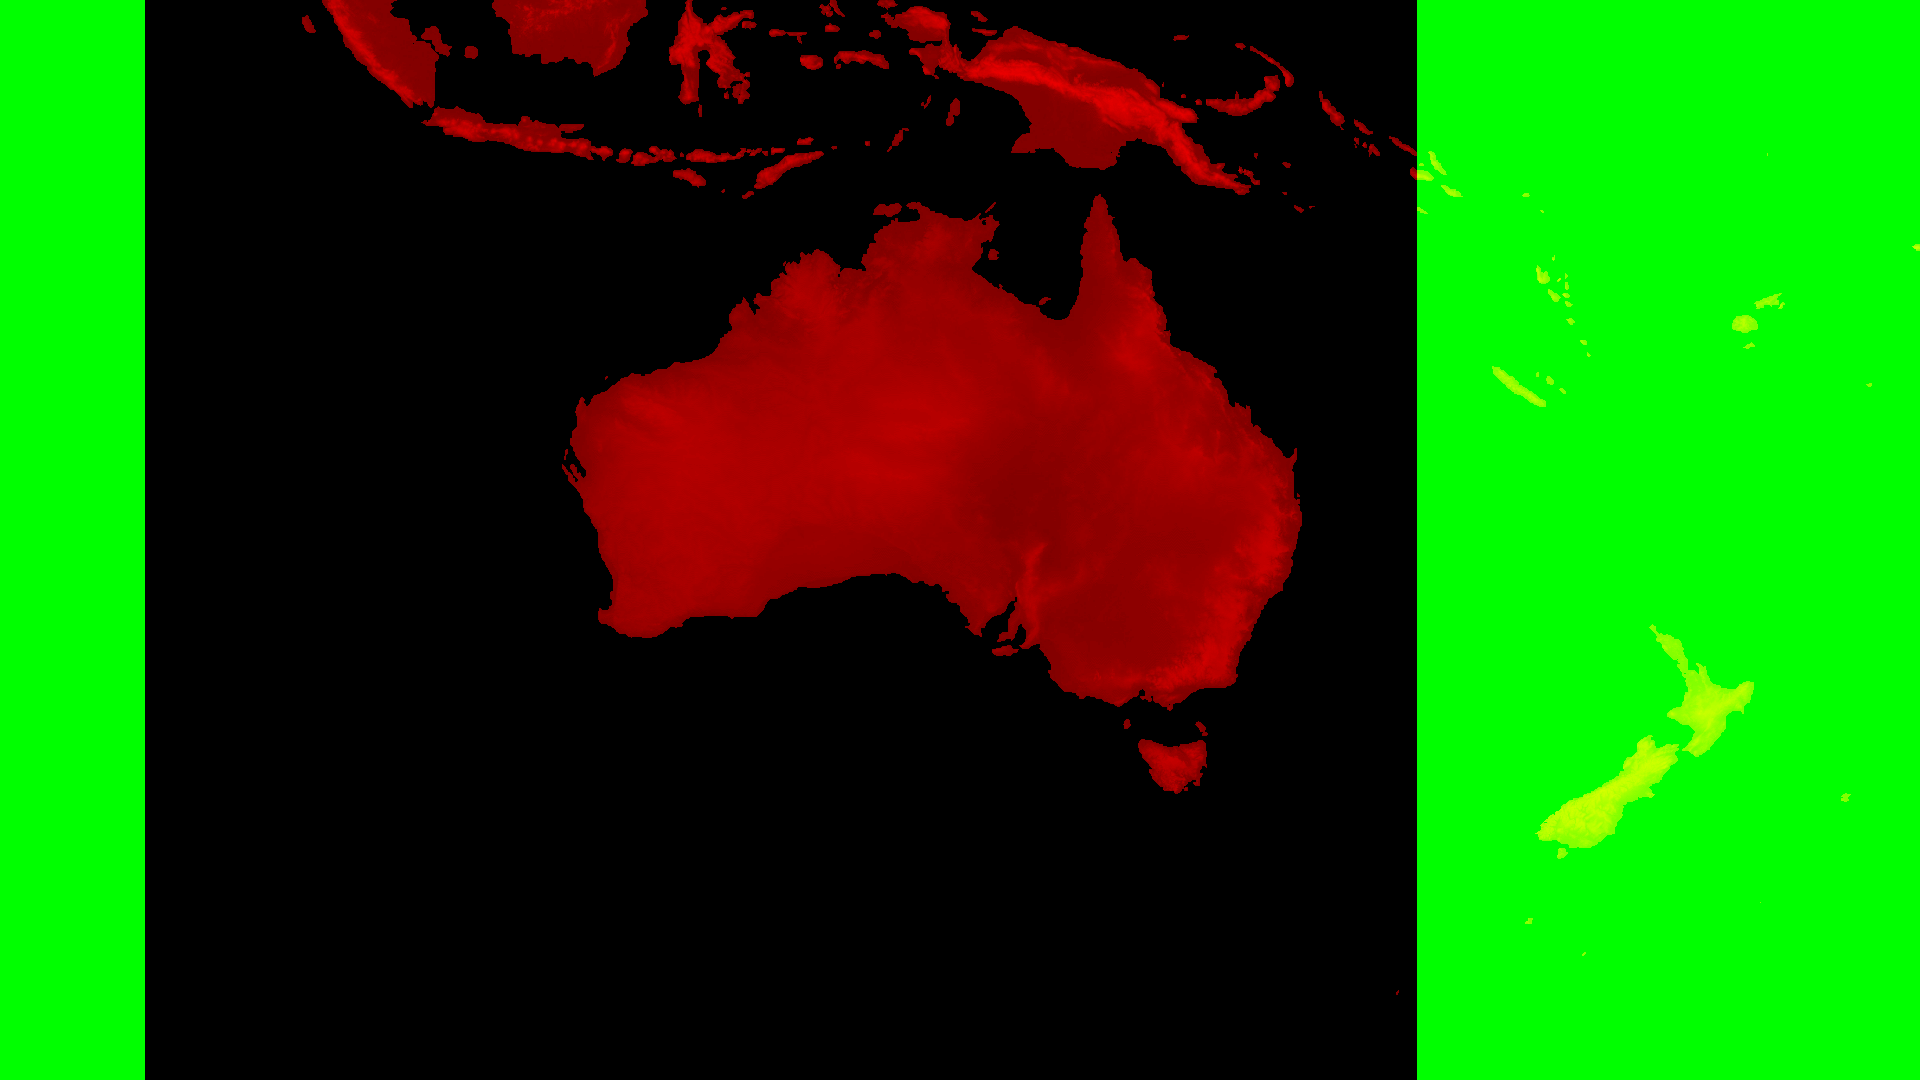
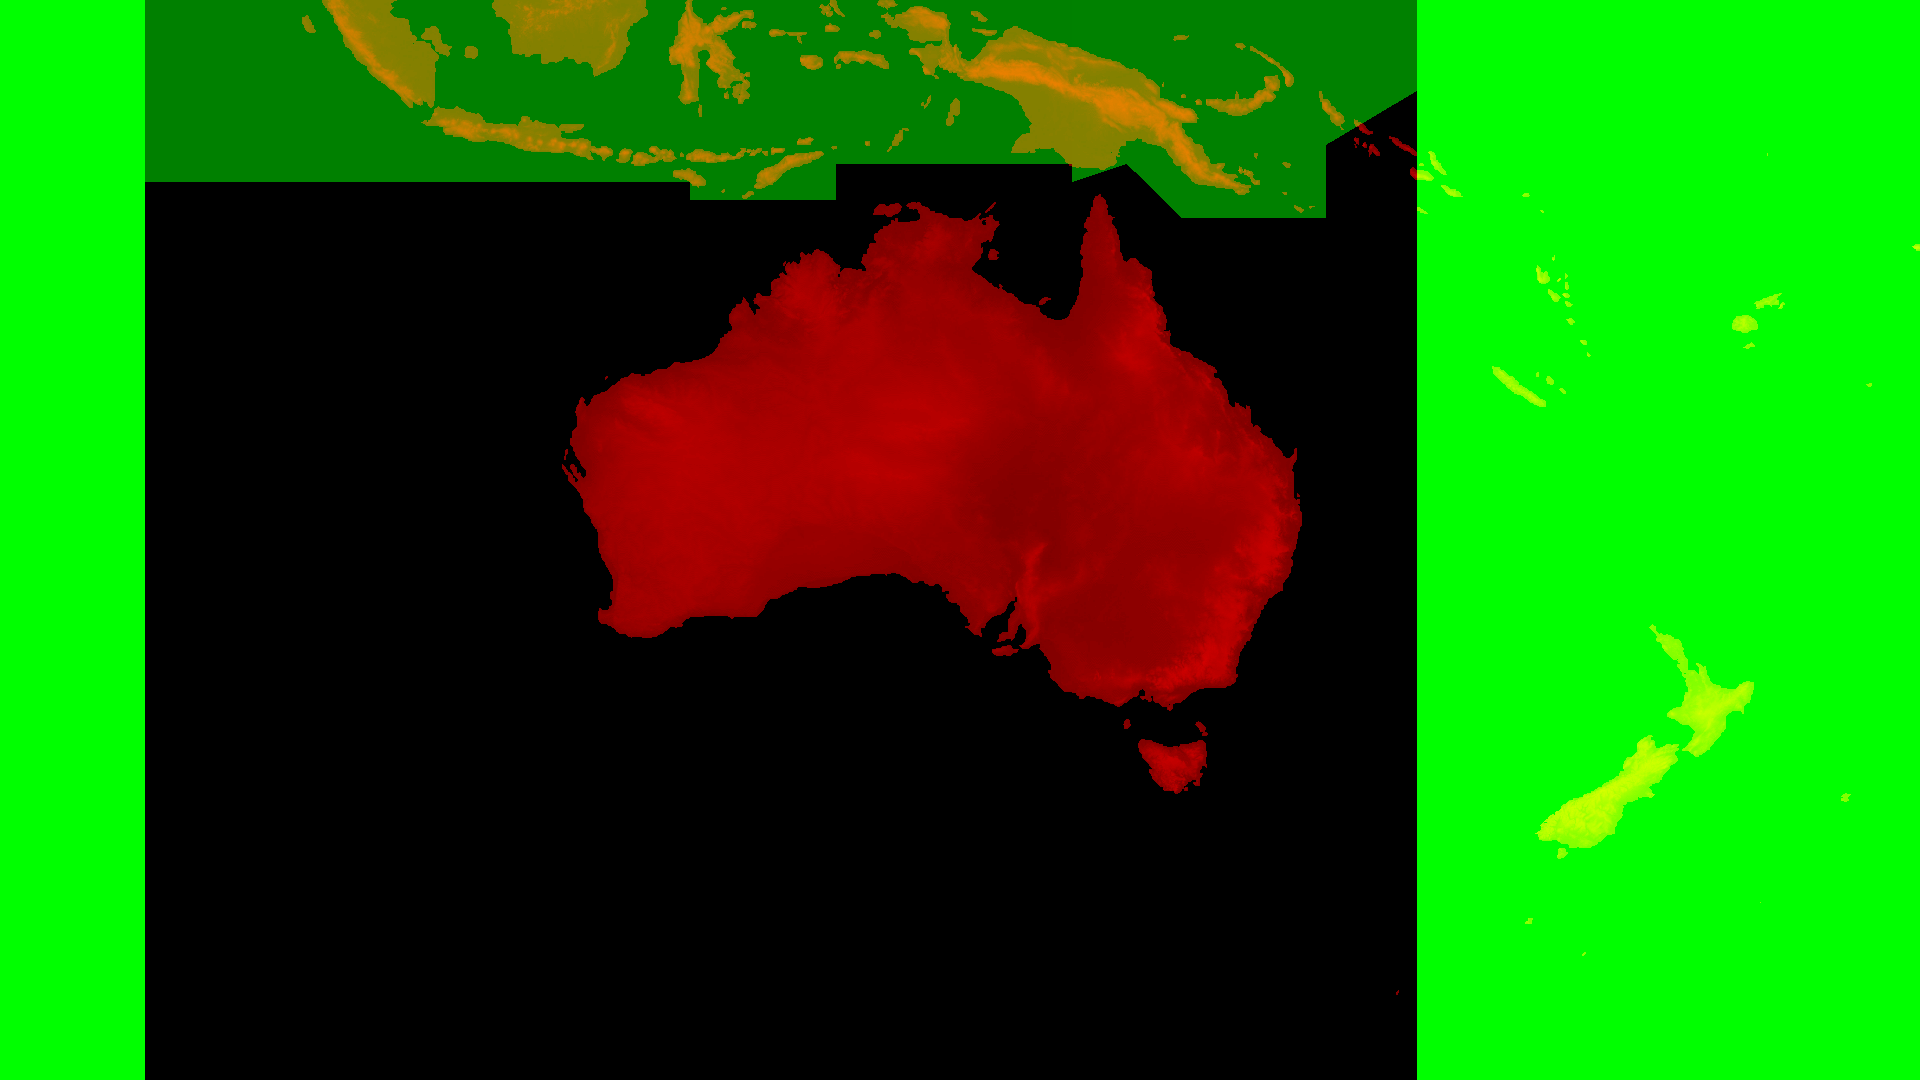
v0.2.3 (b20200211a)

Changed region(s): [[0.0625, 0.0, 0.75, 0.2139]]

diff --git a/basin.js b/basin.js
@@ -28,6 +28,8 @@ class Basin{
         else this.startYear = this.SHem ? SHEM_DEFAULT_YEAR : NHEM_DEFAULT_YEAR;
         this.mapType = opts.mapType || 0;
         if(MAP_TYPES[this.mapType].special==='CPac'){
+            this.subBasins[DEFAULT_MAIN_SUBBASIN].designationSystem.naming.crossingMode = DESIG_CROSSMODE_KEEP;
+            this.subBasins[DEFAULT_MAIN_SUBBASIN].designationSystem.numbering.crossingMode = DESIG_CROSSMODE_KEEP;
             this.addSubBasin(128,undefined,'Central Pacific',DEFAULT_MAIN_SUBBASIN,undefined,new DesignationSystem(undefined,undefined,{
                 suffix: 'C',
                 numCross: DESIG_CROSSMODE_KEEP,
@@ -54,6 +56,19 @@ class Basin{
             this.addSubBasin(129,undefined,'Bay of Bengal',DEFAULT_MAIN_SUBBASIN,undefined,new DesignationSystem(undefined,undefined,{
                 prefix: 'BOB',
                 numCross: DESIG_CROSSMODE_KEEP
+            }));
+        }else if(MAP_TYPES[this.mapType].special==='AUS'){
+            this.subBasins[DEFAULT_MAIN_SUBBASIN].designationSystem.naming.crossingMode = DESIG_CROSSMODE_KEEP;
+            this.subBasins[DEFAULT_MAIN_SUBBASIN].designationSystem.numbering.crossingMode = DESIG_CROSSMODE_KEEP;
+            this.addSubBasin(128,undefined,'Jakarta TCWC',DEFAULT_MAIN_SUBBASIN,undefined,new DesignationSystem(undefined,undefined,{
+                numEnable: false,
+                mainLists: [NAME_LIST_PRESETS[11]],
+                nameCross: DESIG_CROSSMODE_KEEP
+            }));
+            this.addSubBasin(129,undefined,'Port Moresby TCWC',DEFAULT_MAIN_SUBBASIN,undefined,new DesignationSystem(undefined,undefined,{
+                numEnable: false,
+                mainLists: [NAME_LIST_PRESETS[12]],
+                nameCross: DESIG_CROSSMODE_KEEP
             }));
         }
         this.seed = opts.seed || moment().valueOf();

diff --git a/constants.js b/constants.js
@@ -1,6 +1,6 @@
 const TITLE = "Cyclone Simulator";
-const VERSION_NUMBER = "0.2.2";
-const BUILD_NUMBER = "20200209a";
+const VERSION_NUMBER = "0.2.3";
+const BUILD_NUMBER = "20200211a";
 
 const SAVE_FORMAT = 6;  // Format #6 in use starting in v0.2
 const EARLIEST_COMPATIBLE_FORMAT = 0;
@@ -100,7 +100,8 @@ const MAP_TYPES = [     // Land generation controls for different map types
     },
     {   // "Australian Region" map type
         form: 'pixelmap',
-        path: 'resources/Aus.png'
+        path: 'resources/Aus.png',
+        special: 'AUS'
     },
     {   // "South Pacific" map type
         form: 'pixelmap',
